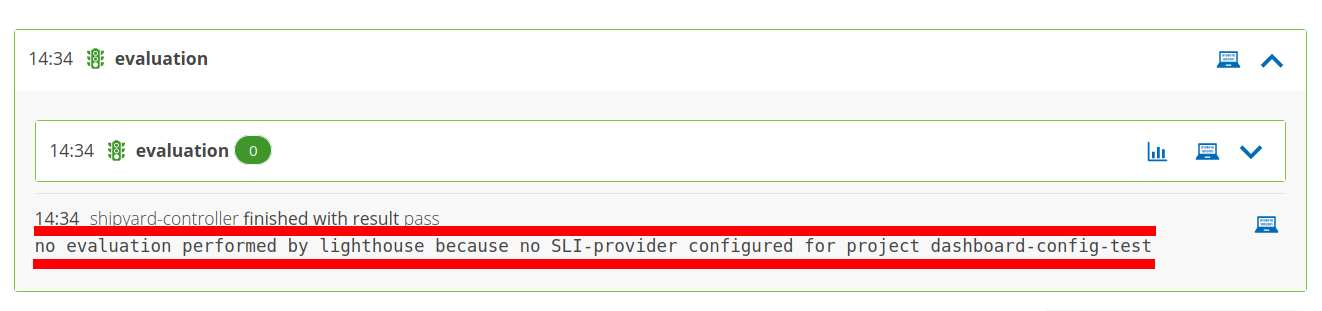
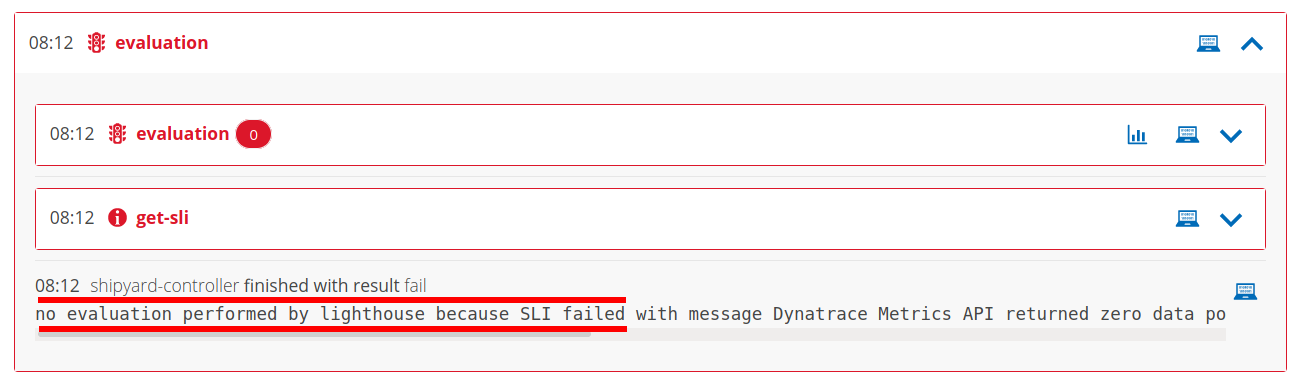
Reformat and improve content

Changed region(s): [[0.0, 0.0868, 1.0, 0.926], [0.0, 0.926, 0.9854, 0.9839], [0.0, 0.0289, 1.0, 0.0579]]

diff --git a/internal/sli/get_sli_triggered_event_handler.go b/internal/sli/get_sli_triggered_event_handler.go
@@ -229,6 +229,7 @@ func (eh GetSLIEventHandler) addSLO(newSLO *keptncommon.SLO) error {
 	// first - lets load the SLO.yaml from the config repo
 	dashboardSLO, err := eh.resourceClient.GetSLOs(eh.event.GetProject(), eh.event.GetStage(), eh.event.GetService())
 	if err != nil {
+		errors.a
 		var rnfErr *keptn.ResourceNotFoundError
 		if !errors.As(err, &rnfErr) {
 			return err

diff --git a/documentation/troubleshooting.md b/documentation/troubleshooting.md
@@ -39,46 +39,72 @@ Likely cause:
 - SLIs and SLOs should be defined using YAML files but no SLOs have been defined i.e. no `slo.yaml` file can be found
 
 Suggested solution:
+
+
+## Evaluation fails: No evaluation performed by Lighthouse because SLI failed
+
+Evaluation fails and the shipyard-controller reports:
+> `no evaluation performed by lighthouse because SLI failed....`
+
+![No evaluation performed by Lighthouse](images/no-evaluation-performed-by-lighthouse.png)
+
+In this case the Lighthouse performed no evaluation because the received `sh.keptn.event.get-sli.finished` event had a `result` of `fail`. The root cause can be identified from the `message` field of this event.
+
+In instances where this is related to a specific SLI, check the `message` field of the individual SLI result in the within `indicatorValues`. This can be viewed in Keptn UI by expanding the `sh.keptn.event.get-sli.finished` event and viewing its payload:
+
+![View `sh.keptn.event.get-sli.finished` payload](images/get-sli-finished-event-payload.png)
+
+The following subsections detail some common messages as well as likely causes and solutions:
+
+### Message: `Could not retrieve any SLI results` 
+
+**Likely cause**
+
+- SLIs and SLOs should be defined using YAML files but no SLOs have been defined, i.e. no `slo.yaml` file can be found
+
+**Suggested solution**
+
 - If SLIs and SLOs should be defined using YAML files, define SLOs by creating a `slo.yaml` file, or
 - If SLIs and SLOs should be sourced from a dashboard, add a [`dashboard` entry to the `dynatrace/dynatrace.conf.yaml` configuration file](dynatrace-conf-yaml-file.md#dashboard-sli-mode-configuration-dashboard)
 
-## Evaluation fails: Dynatrace Metrics API returned zero data points
+### Message: `Metrics API v2 returned zero data points`
 
-Evaluation fails and the shipyard-controller reports:
-> `no evaluation performed by lighthouse because SLI failed with message Dynatrace Metrics API returned zero data points...`
+**Likely cause**
 
-![Dynatrace Metrics API returned zero data points](images/dynatrace-metrics-api-returned-zero-data-points.png)
+- No data is available for an SLI during the evaluation timeframe
 
-Likely cause:
-- No data is available during the evaluation timeframe
+**Suggested solution**
 
-Suggested solution:
-- Check the availability of data for the evaluation timeframe, e.g. using the Data Explorer in the Dynatrace tenant
+- Check the availability of data for the associated SLIs during the evaluation timeframe, e.g. using the Data Explorer in the Dynatrace tenant
 
-## Evaluation fails: Could not query Dynatrace dashboard for SLIs: ...could not find a matching dashboard name
+### Message: `Metrics API v2 returned more than one data point`
 
-Evaluation fails and the shipyard-controller reports:
-> `could not query Dynatrace dashboard for SLIs: error while processing dashboard config '' - could not find a matching dashboard name - e.g. KQG;project=<project>;service=<service>;stage=<stage>`
+**Likely cause**
 
-![Could not find a matching dashboard](images/could-not-find-a-matching-dashboard.png)
+- Multiple data points are returned for an SLI during the evaluation timeframe where only one is expected
 
-Likely cause:
-- Dynatrace-service is configured to query a dashboard for SLIs (i.e. `dynatrace/dynatrace.conf.yaml` contains `dashboard: query`) but no dashboard named with the pattern `KQG;project=<project>;service=<service>;stage=<stage>` is available
+**Suggested solution**
 
-Suggested solution:
-- If SLIs and SLOs should be sourced from a dashboard, create a dashboard named with the pattern `KQG;project=<project>;service=<service>;stage=<stage>` in the Dynatrace tenant, or
-- If SLIs and SLOs should be defined using YAML files, remove the [`dashboard: query` entry from `dynatrace/dynatrace.conf.yaml`](dynatrace-conf-yaml-file.md#dashboard-sli-mode-configuration-dashboard)
+- Ensure the SLI only returns a single data point by e.g. including a `merge` or `splitBy` transformation in the query
 
-## Evaluation fails: Could not query Dynatrace dashboard for SLIs: ...Dashboard "..." not found
+### Message: `could not query Dynatrace dashboard for SLIs: error while processing dashboard config '12345678-1234-1234-1234-12345678abcd' - Dynatrace API error (404): Dashboard 12345678-1234-1234-1234-12345678abcd not found`
 
-Evaluation fails and the shipyard-controller reports:
-> `could not query Dynatrace dashboard for SLIs: error while processing dashboard config '12345678-1234-1234-1234-12345678abcd' - Dynatrace API error (404): Dashboard 12345678-1234-1234-1234-12345678abcd not found`
+**Likely cause**
 
-![Dashboard not found](images/dashboard-not-found.png)
-
-Likely cause:
 - Dynatrace-service is configured to query a specific dashboard for SLIs (i.e. [`dynatrace/dynatrace.conf.yaml` contains `dashboard: <dashboard-id>`](dynatrace-conf-yaml-file.md#dashboard-sli-mode-configuration-dashboard)) but no dashboard with the specified ID is available
 
-Suggested solution:
-- If SLIs and SLOs should be sourced from a dashboard, ensure `dynatrace/dynatrace.conf.yaml` contains a `dashboard: <dashboard-id>` entry with the correct dashboard ID, or
-- If SLIs and SLOs should be defined using YAML files, remove the `dashboard: <dashboard-id>` entry from `dynatrace/dynatrace.conf.yaml`
+**Suggested solution**
+
+ - If SLIs and SLOs should be sourced from a dashboard, ensure `dynatrace/dynatrace.conf.yaml` contains a `dashboard: <dashboard-id>` entry with the correct dashboard ID, or
+ - If SLIs and SLOs should be defined using YAML files, remove the `dashboard: <dashboard-id>` entry from `dynatrace/dynatrace.conf.yaml`
+
+### Message: `could not query Dynatrace dashboard for SLIs: error while processing dashboard config '' - could not find a matching dashboard name - e.g. KQG;project=<project>;service=<service>;stage=<stage>`
+
+**Likely cause**
+
+- Dynatrace-service is configured to query a dashboard for SLIs (i.e. `dynatrace/dynatrace.conf.yaml` contains `dashboard: query`) but no dashboard named with the pattern `KQG;project=<project>;service=<service>;stage=<stage>` is available
+
+**Suggested solution**
+
+- If SLIs and SLOs should be sourced from a dashboard, create a dashboard named with the pattern `KQG;project=<project>;service=<service>;stage=<stage>` in the Dynatrace tenant, or
+- If SLIs and SLOs should be defined using YAML files, remove the [`dashboard: query` entry from `dynatrace/dynatrace.conf.yaml`](dynatrace-conf-yaml-file.md#dashboard-sli-mode-configuration-dashboard)
